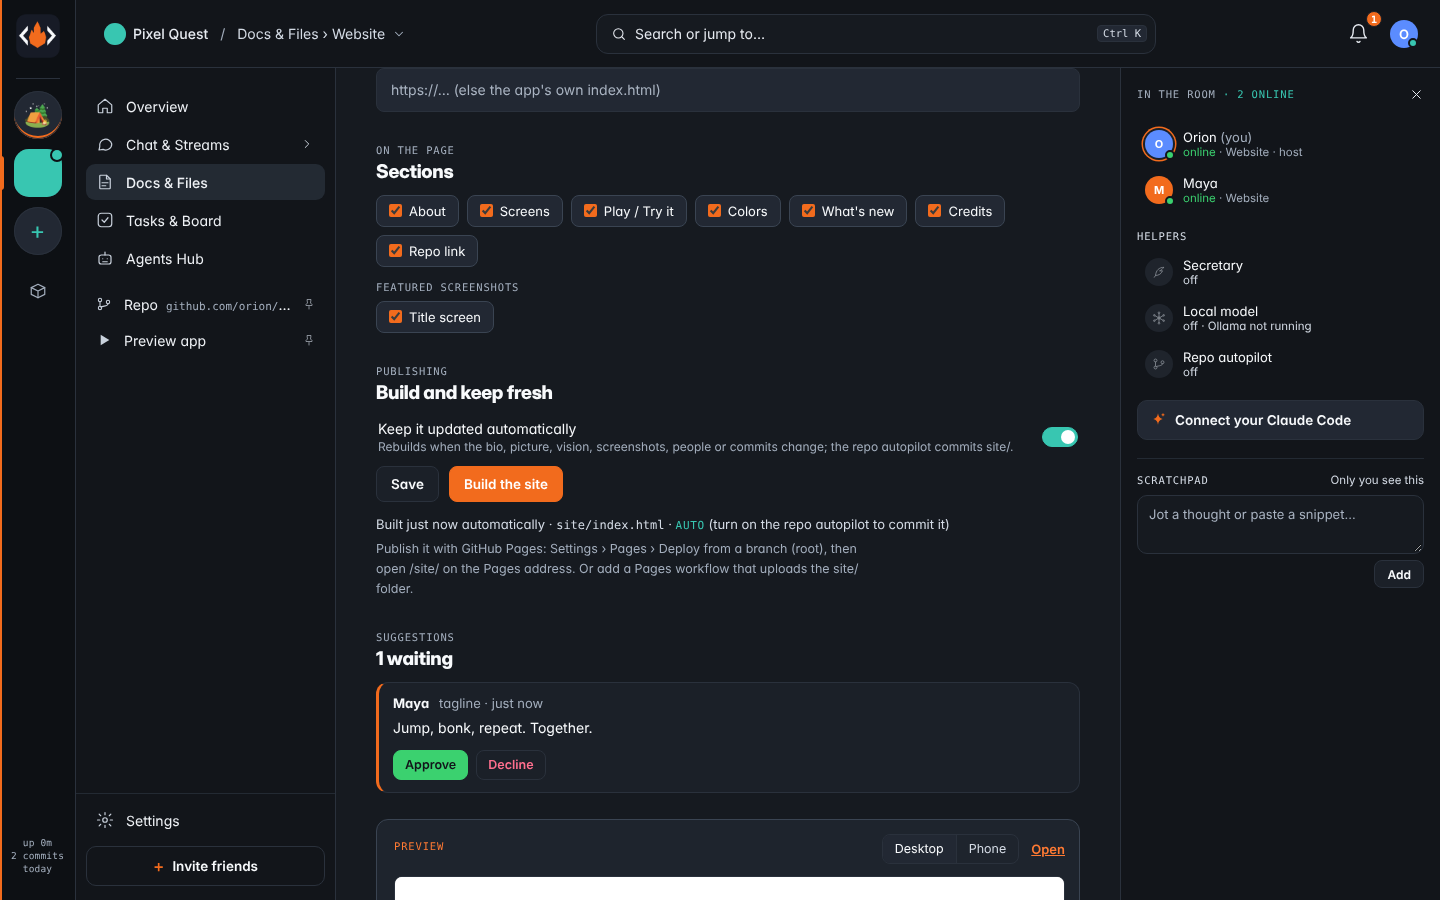
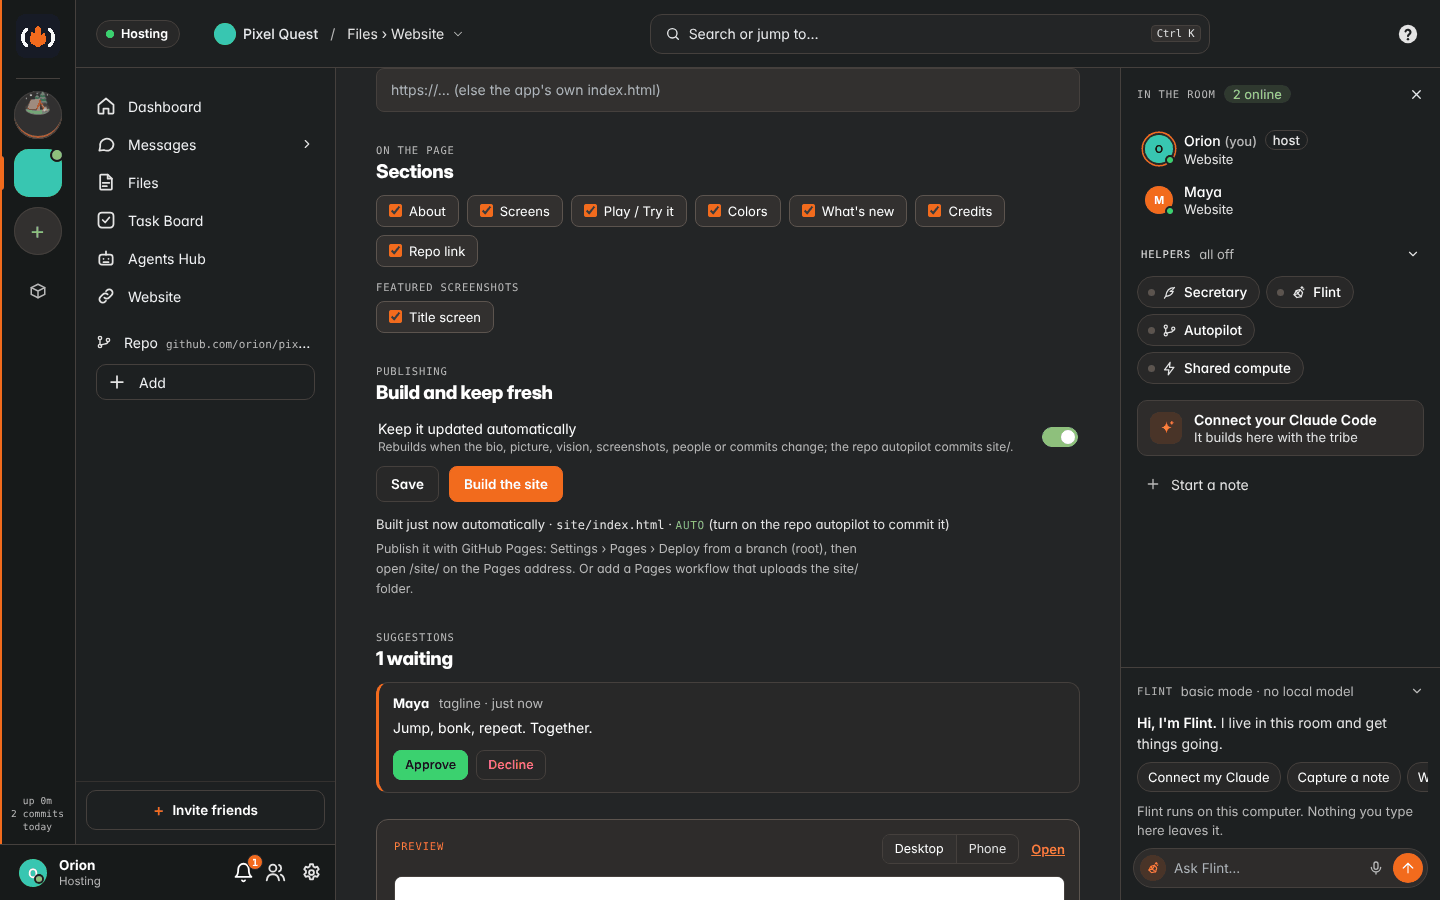
docs/WEBSITE.md: a current screenshot and the Files › Website path
Claude-Session: https://claude.ai/code/session_01Q3y5f5AEdzfgkZgsBdK9Ys

diff --git a/docs/WEBSITE.md b/docs/WEBSITE.md
@@ -1,7 +1,7 @@
 # Website
 
 Every project (a game, an app, anything) gets its own public page, made from what the project already has.
-Open it from **Docs & Files › Website** (`#/docs/website`). The project overview shows a small **Website** link once the page exists.
+Open it from **Files › Website** (`#/docs/website`). Once the page exists, **Website** also gets its own row in the project sidebar.
 
 ![Website on desktop](screenshots/website-suggestion.png)
 
